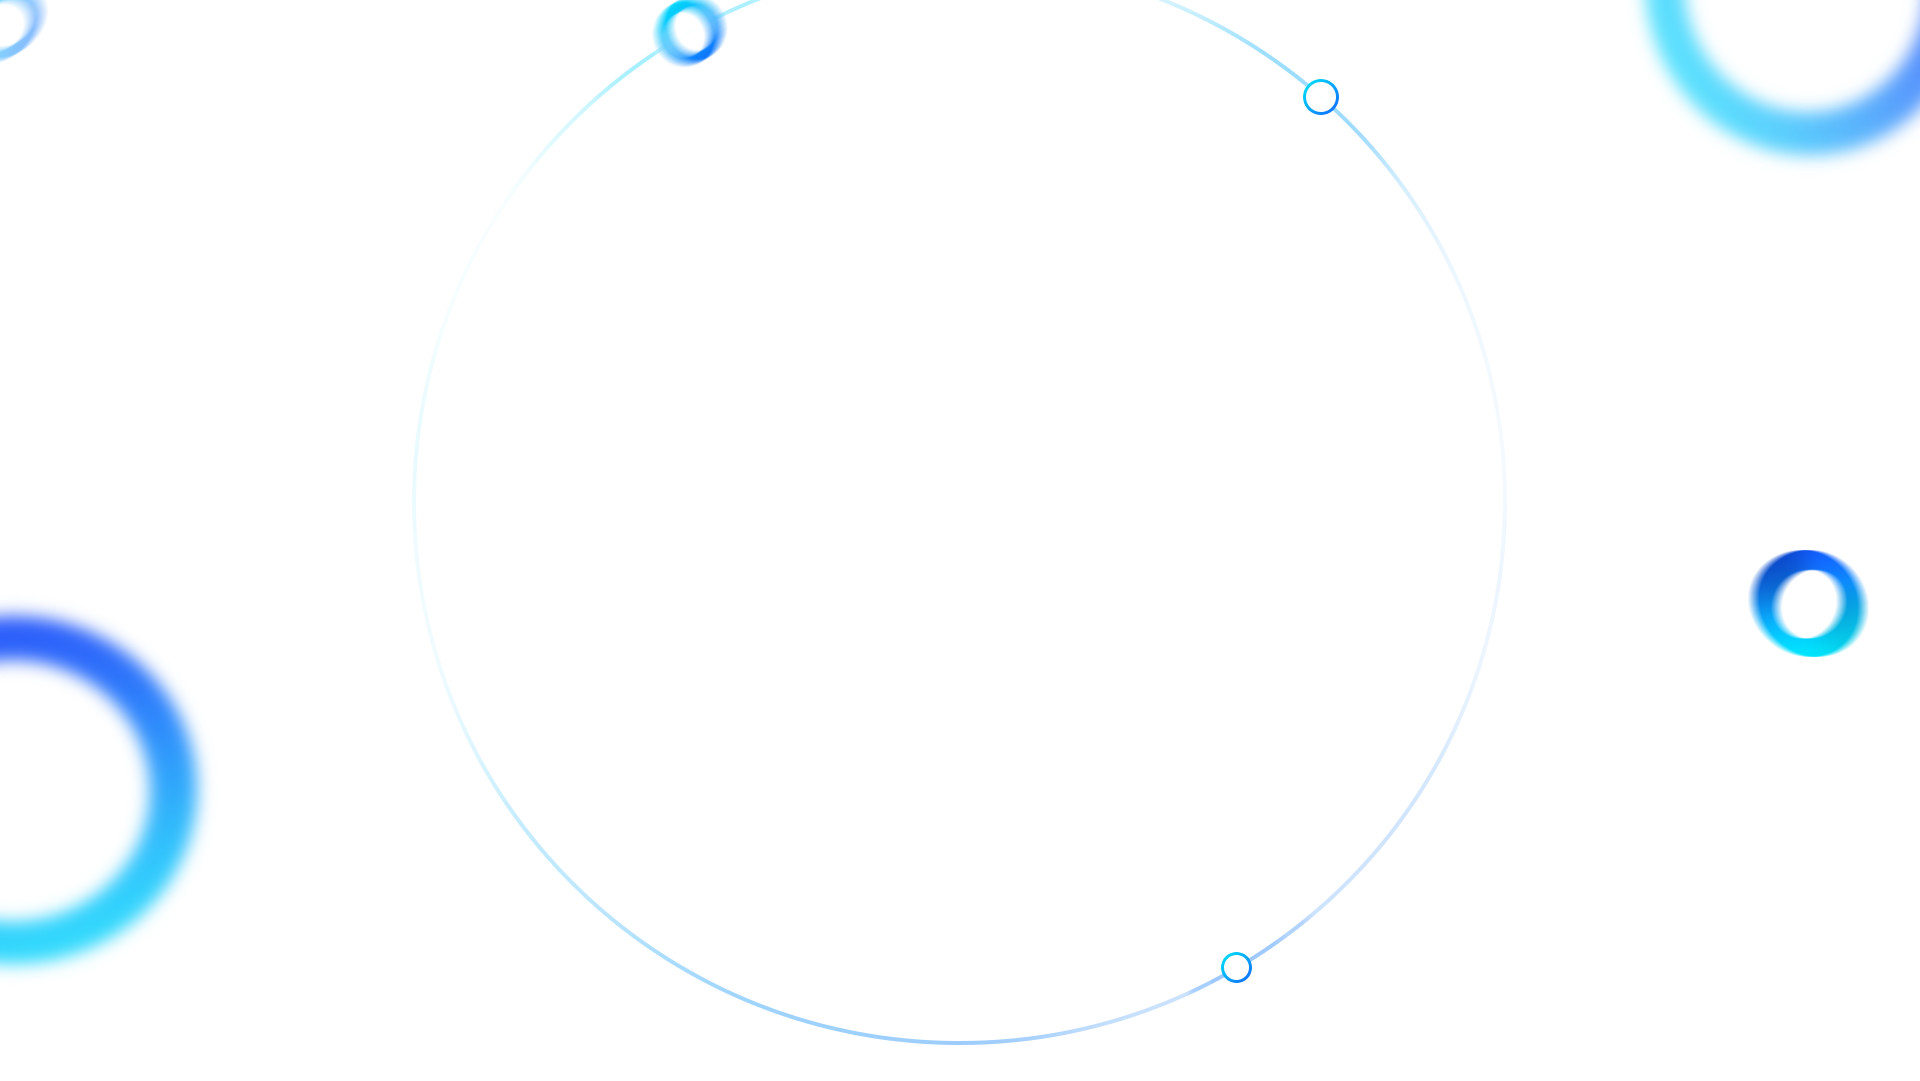
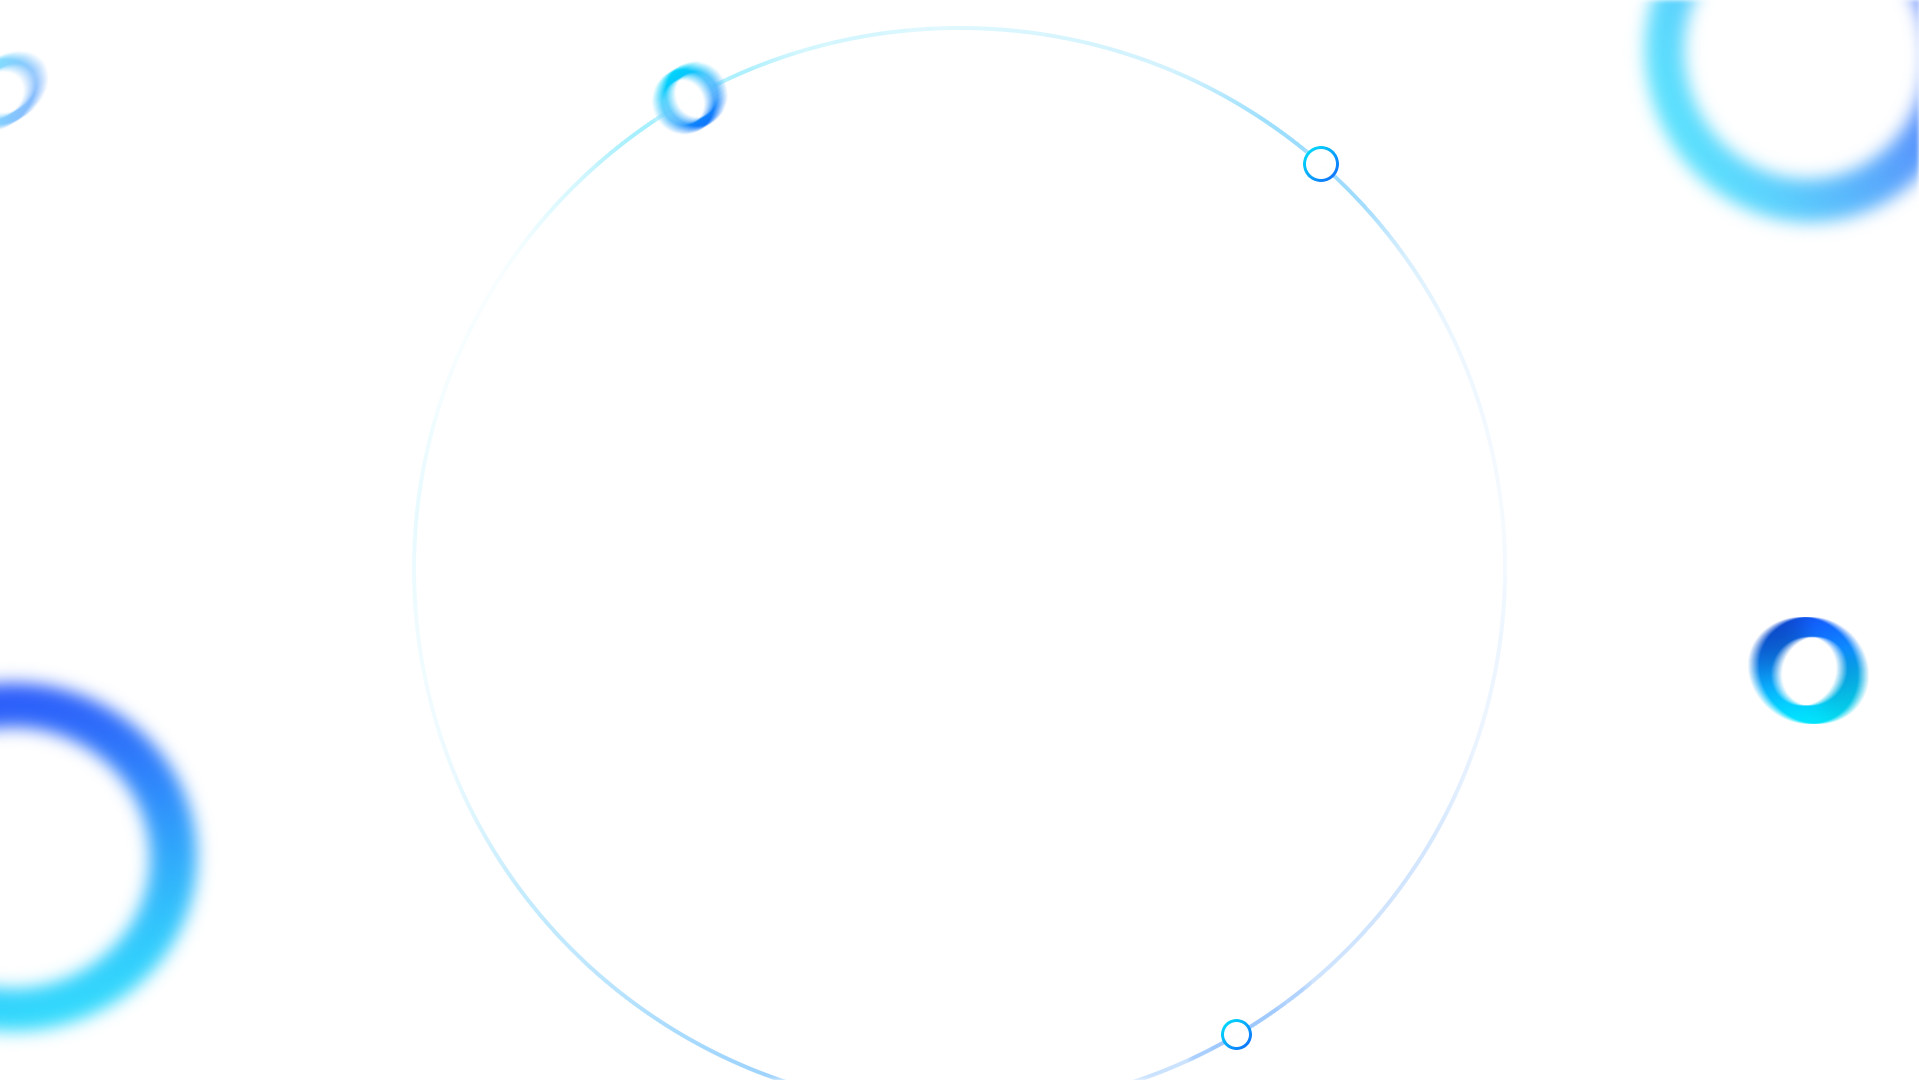
Update bg-scenes-2.jpg & Debug css

diff --git a/bundle/index.min.css b/bundle/index.min.css
@@ -4,7 +4,7 @@
 * @Email:  st_sister@iCloud.com
 * @Filename: index.css
 * @Last modified by:   SuperWoods
-* @Last modified time: 2016-12-21-23:29:23
+* @Last modified time: 2016-12-21-23:48:06
 * @License: MIT
 * @Copyright: Copyright (c) Xinhuanet Inc. All rights reserved.
 */
@@ -602,7 +602,7 @@ body {
 * @Email:  st_sister@iCloud.com
 * @Filename: scens-2.css
 * @Last modified by:   SuperWoods
-* @Last modified time: 2016-12-21-23:29:43
+* @Last modified time: 2016-12-21-23:47:30
 * @License: MIT
 * @Copyright: Copyright (c) Xinhuanet Inc. All rights reserved.
 */
@@ -652,9 +652,9 @@ body {
 }
 /* scenes-slide */
 .scenes-slide {
-    text-align: left;
-    font-size : 18px;
-    background: #fff;
+    text-align      : left;
+    font-size       : 18px;
+    background-color: #fff;
     /* Center slide text vertically */
     /*display                : -webkit-box;
         display                : -ms-flexbox;

diff --git a/css/index.css b/css/index.css
@@ -4,7 +4,7 @@
 * @Email:  st_sister@iCloud.com
 * @Filename: index.css
 * @Last modified by:   SuperWoods
-* @Last modified time: 2016-12-21-23:29:23
+* @Last modified time: 2016-12-21-23:48:06
 * @License: MIT
 * @Copyright: Copyright (c) Xinhuanet Inc. All rights reserved.
 */
@@ -26,9 +26,9 @@
 }
 /* scenes-slide */
 .scenes-slide {
-    text-align: left;
-    font-size : 18px;
-    background: #fff;
+    text-align      : left;
+    font-size       : 18px;
+    background-color: #fff;
     /* Center slide text vertically */
     /*display                : -webkit-box;
         display                : -ms-flexbox;

diff --git a/css/scens-2.css b/css/scens-2.css
@@ -4,7 +4,7 @@
 * @Email:  st_sister@iCloud.com
 * @Filename: scens-2.css
 * @Last modified by:   SuperWoods
-* @Last modified time: 2016-12-21-23:29:43
+* @Last modified time: 2016-12-21-23:47:30
 * @License: MIT
 * @Copyright: Copyright (c) Xinhuanet Inc. All rights reserved.
 */
